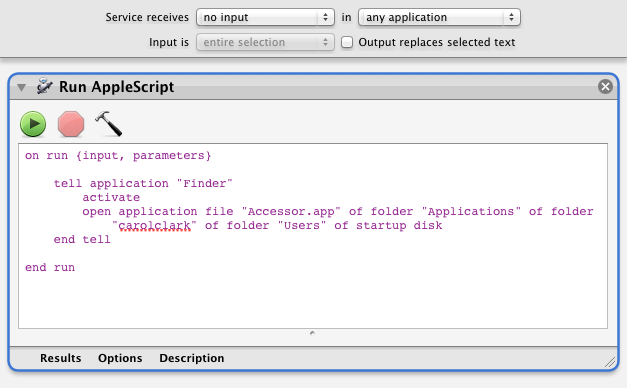
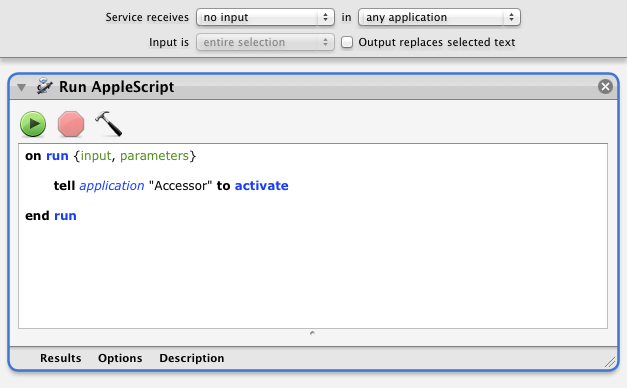
rename BBEdit, Xcode plists to add 'Scripts'
also Service: OpenAccessor: activate Accessor.app directly (not with Finder)

Changed region(s): [[0.0303, 0.4639, 0.9394, 0.6495], [0.0303, 0.3711, 0.3333, 0.433], [0.0303, 0.6804, 0.1212, 0.7113]]

diff --git a/BuildSupport/Cdoc/html/History_Support.html b/BuildSupport/Cdoc/html/History_Support.html
@@ -204,7 +204,7 @@
 		</ul></li>
 		<li class='tldate'>UseCaseSupport [01/22/2013]</li>
 		<!-- @marker "3 === Current" --><li class='tlhead' id='hmark_Current'>&lt;-- Current</li>
-		<li>replace bundle/script targets with external targets to provide clean support<ul>
+		<li>replace bundle/kshScript targets with external targets to provide clean support<ul>
 			<li class='blurb'>see <a href="http://yeahrightkeller.com/2009/run-script-while-cleaning-in-xcode/">Run Script While Cleaning in Xcode</a></li>
 			<li>ccInstall: reformat error messages so they begin with error:, since that is Xcode's mechanism for identifying error messages</li>
 			<li>new script ccInstallAction.ksh to call ccInstall on behalf of external targets; replace Cdoc Bundle/script target with External target</li>
@@ -219,7 +219,14 @@
 					<li>ccInstall: add --removeFolder</li>
 				</ul></li>
 			</ul></li>
+			<li>BBEdit: use External target BBEdit with dependency on script bundle target BBEditScripts</li>
+			<li>Targets BBEdit, Developer, Cdoc: Clean operation cleans up installed files</li>
+			<li>convert Cdoc, Doxygen targets in Punkin, Accessor to use External targets<ul>
+				<li>expand ccInstallAction.ksh to support Doxygen builds</li>
+			</ul></li>
+			<li>retire obsolete scripts buildCdoc.ksh, doxygenBuild.ksh, cleanProjectTarget.ksh</li>
 		</ul></li>
+		<li>gitaccess.ksh: handles list files, select file, get current branch functionality currently handled by Terminal Slate</li>
 	</ul>
 
 	<!-- @marker "Automation Support" -->
